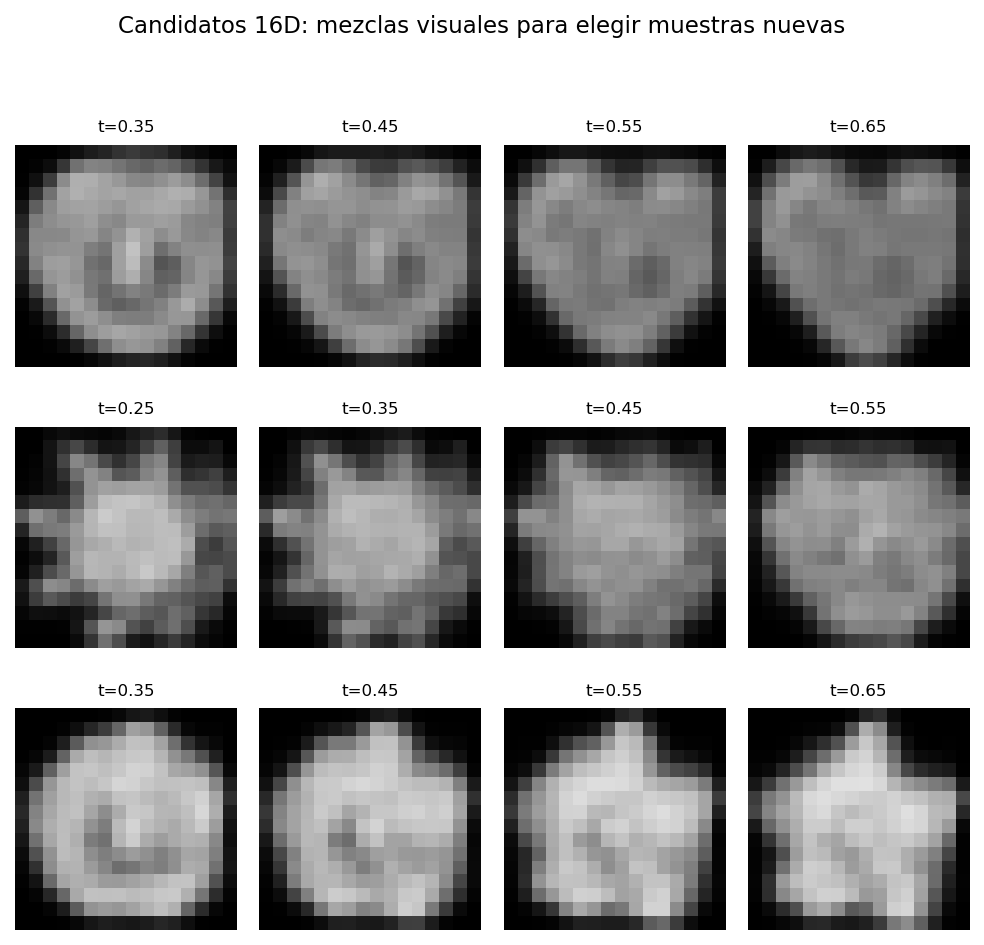
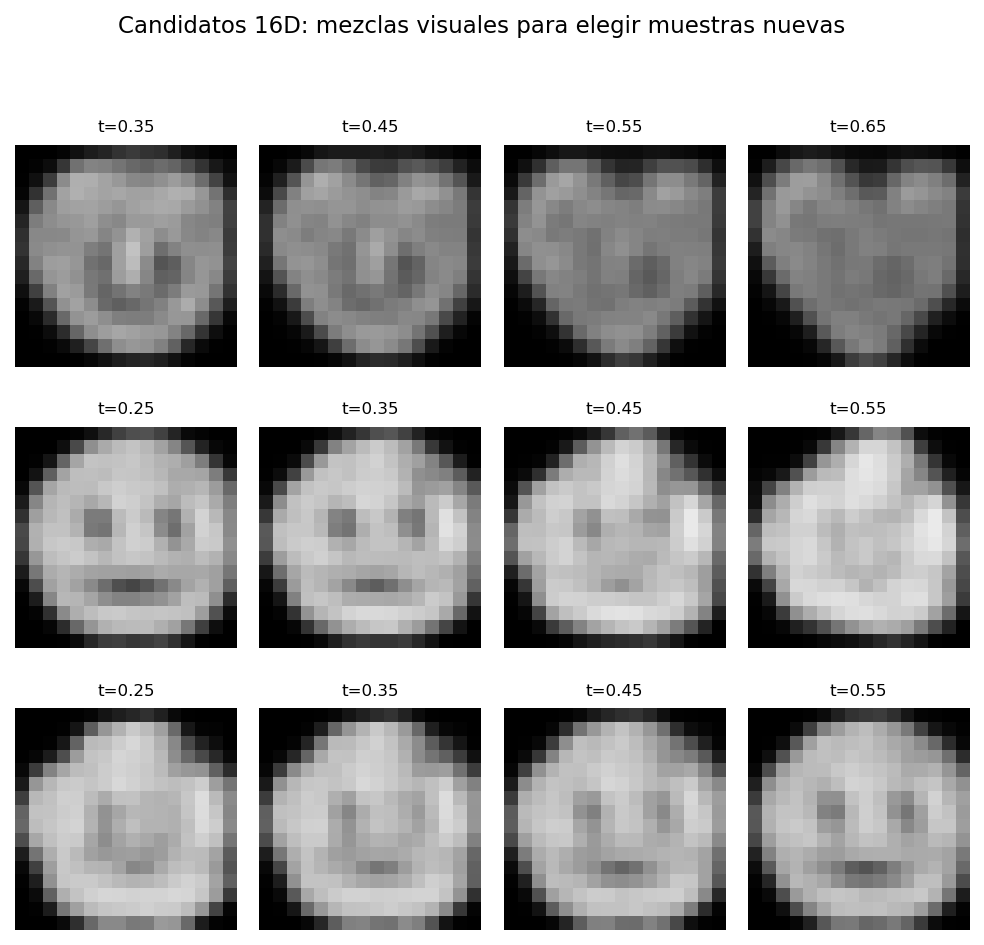
.

Changed region(s): [[0.0, 0.4296, 1.0, 0.7058], [0.0, 0.7365, 1.0, 1.0], [0.061, 0.7365, 0.1829, 0.7979]]

diff --git a/ej2/experiments/generated_samples_latent16.py b/ej2/experiments/generated_samples_latent16.py
@@ -28,6 +28,7 @@ from ej2.experiments._common import train_vae
 DATA_PATH = os.path.join(REPO_ROOT, "ej2", "data", "emojis.npz")
 RESULTS_DIR = os.path.join(REPO_ROOT, "ej2", "results")
 MODEL_PATH = os.path.join(RESULTS_DIR, "generated_latent16_seed2_model.npz")
+LATENT8_MODEL_PATH = os.path.join(RESULTS_DIR, "interp_latent8_seed1_model.npz")
 
 LATENT_DIM = 16
 EPOCHS = 1000
@@ -35,15 +36,19 @@ SEED = 2
 
 PAIR_SWEEPS = [
     {"name": "cara_feliz + corazon", "a": 0, "b": 8, "ts": [0.35, 0.45, 0.55, 0.65]},
-    {"name": "sol + cara_feliz", "a": 10, "b": 0, "ts": [0.25, 0.35, 0.45, 0.55]},
-    {"name": "cara_feliz + estrella", "a": 0, "b": 9, "ts": [0.35, 0.45, 0.55, 0.65]},
+    {"name": "cara_feliz + nube", "a": 0, "b": 11, "ts": [0.25, 0.35, 0.45, 0.55]},
+    {"name": "flor + cara_feliz", "a": 14, "b": 0, "ts": [0.25, 0.35, 0.45, 0.55]},
 ]
 
 FINAL_SPECS = [
     {"name": "cara_feliz + corazon", "a": 0, "b": 8, "t": 0.55},
-    {"name": "sol + cara_feliz", "a": 10, "b": 0, "t": 0.45},
-    {"name": "cara_feliz + estrella", "a": 0, "b": 9, "t": 0.55},
+    {"name": "cara_feliz + nube", "a": 0, "b": 11, "t": 0.35},
+    {"name": "flor + cara_feliz", "a": 14, "b": 0, "t": 0.35},
 ]
+
+RANDOM_SEED = 7
+RANDOM_COUNT = 8
+RANDOM_KEEP = [1, 3, 4]
 
 
 def load_emojis():
@@ -70,6 +75,23 @@ def load_or_train_model(X):
 def decode_mix(vae, centroids, class_a, class_b, t):
     z = (1.0 - t) * centroids[class_a] + t * centroids[class_b]
     return vae.decode(z[None, :])[0]
+
+
+def decode_feliz_corazon_from_latent8(X, y):
+    """Reusa la mezcla visual que mejor funcionaba en la interpolacion latent8."""
+    if not os.path.exists(LATENT8_MODEL_PATH):
+        raise FileNotFoundError(
+            f"No existe {LATENT8_MODEL_PATH}. Corre primero interp_feliz_sorprendida.py"
+        )
+
+    vae8 = VAE.load(LATENT8_MODEL_PATH)
+    mu8 = vae8.encode(X)
+    za = mu8[y == 0].mean(axis=0)   # cara_feliz
+    zb = mu8[y == 8].mean(axis=0)   # corazon
+    # Replica el panel t=0.56 de la figura original (np.linspace(0,1,10)).
+    t = 5.0 / 9.0
+    z = (1.0 - t) * za + t * zb
+    return vae8.decode(z[None, :])[0]
 
 
 def make_candidates(vae, centroids, image_shape):
@@ -100,20 +122,35 @@ def make_candidates(vae, centroids, image_shape):
 
 
 def make_final(vae, centroids, image_shape):
-    cols = len(FINAL_SPECS)
-    fig, axes = plt.subplots(1, cols, figsize=(cols * 2.6, 3.2))
+    X, y, _, _ = load_emojis()
+    random_samples, _ = vae.generate(RANDOM_COUNT, seed=RANDOM_SEED)
+    chosen_random = [random_samples[i] for i in RANDOM_KEEP]
+
+    total = len(FINAL_SPECS) + len(chosen_random)
+    cols = 3
+    rows = int(np.ceil(total / cols))
+    fig, axes = plt.subplots(rows, cols, figsize=(cols * 2.4, rows * 2.4))
     axes = np.atleast_1d(axes).ravel()
 
-    for ax, spec in zip(axes, FINAL_SPECS):
-        img = decode_mix(vae, centroids, spec["a"], spec["b"], spec["t"])
+    images = []
+    for i, spec in enumerate(FINAL_SPECS):
+        if i == 0:
+            img = decode_feliz_corazon_from_latent8(X, y)
+        else:
+            img = decode_mix(vae, centroids, spec["a"], spec["b"], spec["t"])
+        images.append(img)
+    images.extend(chosen_random)
+
+    for ax, img in zip(axes, images):
         ax.imshow(img.reshape(image_shape), cmap="gray",
                   interpolation="nearest", vmin=0, vmax=1)
         ax.set_xticks([])
         ax.set_yticks([])
-        ax.set_title(spec["name"], fontsize=9)
+    for ax in axes[len(images):]:
+        ax.axis("off")
 
-    fig.suptitle("Imagenes nuevas generadas en el espacio latente 16D",
-                 y=0.92, fontsize=12)
+    fig.suptitle("Imagenes nuevas generadas en el espacio latente",
+                 y=0.97, fontsize=12)
     fig.tight_layout(rect=[0, 0, 1, 0.9])
     out = os.path.join(RESULTS_DIR, "generated_samples_latent16.png")
     save_fig(fig, out)

diff --git a/presentacion/main.tex b/presentacion/main.tex
@@ -1081,7 +1081,7 @@
   \centering
   \includegraphics[height=0.72\textheight]{generated_samples_latent16.png}
   \vfill
-  {\footnotesize Imagenes nuevas generadas en el espacio latente \textbf{16D}:
+  {\footnotesize Imagenes nuevas generadas en el espacio latente:
    combinan rasgos visuales del dataset sin copiar ejemplos de entrenamiento.}
 \end{frame}
 
